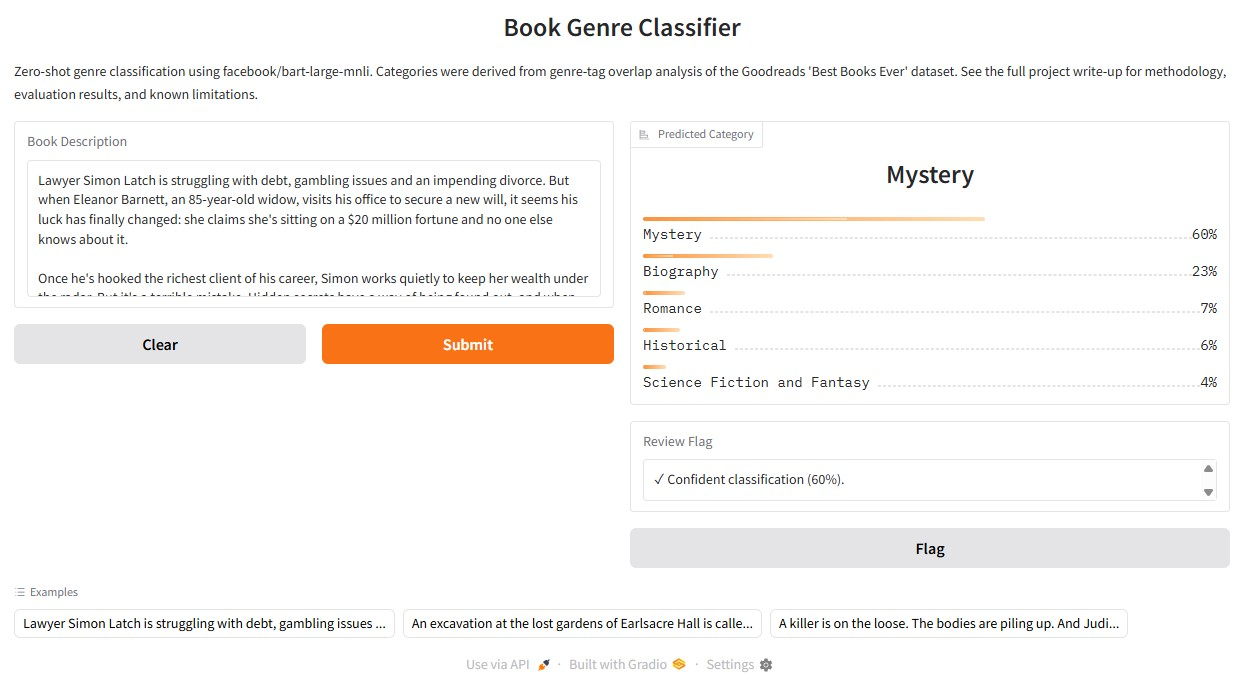
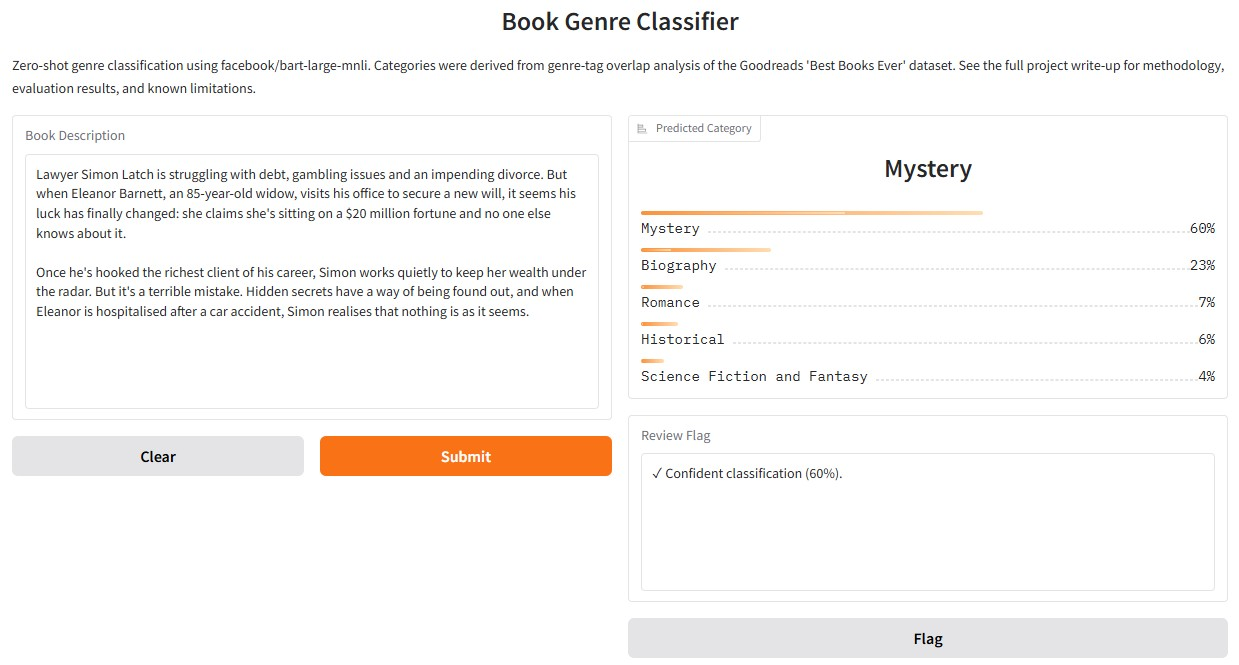
zero shot update

diff --git a/zero-shot-classification/Zero_Shot_Classification_Books_Gradio_v2.py b/zero-shot-classification/Zero_Shot_Classification_Books_Gradio_v2.py
@@ -142,13 +142,13 @@ def predict_genre(description):
 iface = gr.Interface(
     fn=predict_genre,
     inputs=gr.Textbox(
-        lines=6,
+        lines=12,
         placeholder='Enter a book description here...',
         label='Book Description'
     ),
     outputs=[
         gr.Label(num_top_classes=5, label='Predicted Category'),
-        gr.Textbox(label='Review Flag', interactive=False),
+        gr.Textbox(lines=6, label='Review Flag', interactive=False),
     ],
     examples=EXAMPLE_DESCRIPTIONS,
     title='Book Genre Classifier',